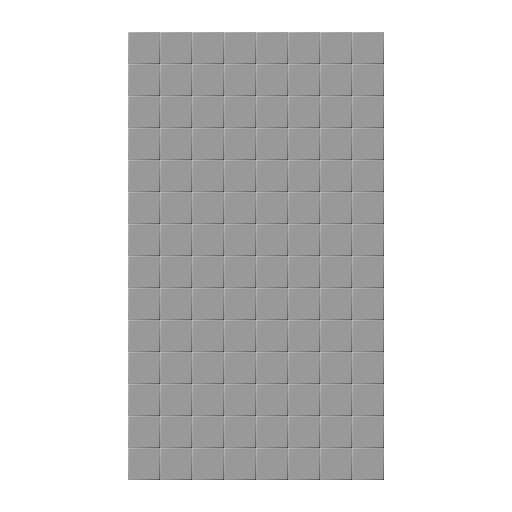
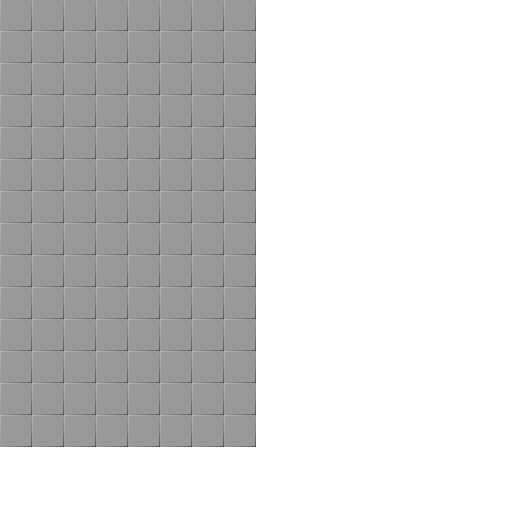
Correct drawing of the grid with background

diff --git a/Diamonds/DiamondsGame.m b/Diamonds/DiamondsGame.m
@@ -16,7 +16,6 @@
 {
     SpriteBatch* batch;
     
-    Sprite* gridSprite;
     Sprite* background;
         
     Grid* grid;
@@ -26,19 +25,27 @@
 - (void) loadResources: (ResourceManager*) resources
 {        
     background = [[Sprite alloc] initWithTexture: [resources loadTexture: @"back000"]];
-    gridSprite = [[Sprite alloc] initWithTexture: [resources loadTexture: @"grid"]];
         
     [background moveTo: CGPointMake(0, 0)];
-    [gridSprite moveTo: CGPointMake(0, 0)];
         
     GridPresentationInfo info;
     
-    info.origin = CGPointMake(0, 0);
+    info.origin = CGPointMake(20, 32);
     info.cellSize = CGSizeMake(32, 32);
+    info.heightInCells = 14;
     
     grid = [[Grid alloc] initWithResources: resources];
-    gridDrawer = [[GridDrawer alloc] initWithGrid: grid info: info];
+
     
+    gridDrawer = [[GridDrawer alloc] initWithGrid: grid info: info];
+
+    Sprite* gridBackground = [[Sprite alloc] initWithTexture: [resources loadTexture: @"grid"]];
+
+    [gridBackground resizeTo: CGSizeMake(256, 512)];
+    [gridBackground setSourceRectangle: CGRectMake(0, 0, 256, 512)];
+    
+    [gridDrawer setBackground: gridBackground];
+
     [grid put: Ruby at: MakePosition(0, 0)];
     [grid put: Diamond at: MakePosition(1, 0)];
 }
@@ -49,13 +56,13 @@
 }
 
 - (void) draw: (GameTime*) gameTime
-{    
+{ 
     batch = [[SpriteBatch alloc] initWithEngine: self.engine];
     
     [batch begin];
     
     [background drawIn: batch];
-    [gridSprite drawIn: batch];
+    [gridDrawer drawBackgroundIn: batch];
     [gridDrawer drawIn: batch];
     
     [batch end];

diff --git a/DiamondsTests/TestGridDrawer.m b/DiamondsTests/TestGridDrawer.m
@@ -9,6 +9,7 @@
 
 #import "MockSpriteBatch.h"
 #import "MockResourceManager.h"
+#import "MockTexture.h"
 
 @interface TestGridDrawer: TestCase 
 @end
@@ -30,8 +31,9 @@
 
     resources = [MockResourceManager new];
     
-    info.origin = CGPointMake(0, 0);
+    info.origin = CGPointMake(100, 100);
     info.cellSize = CGSizeMake(32, 32);
+    info.heightInCells = 14;
     
     grid = [[Grid alloc] initWithResources: resources];
     gridDrawer = [[GridDrawer alloc] initWithGrid: grid info: info];
@@ -49,7 +51,7 @@
 {
     CGPoint expectedPosition;
     expectedPosition.x = info.origin.x + info.cellSize.width * gridPosition.column; 
-    expectedPosition.y = info.origin.y - info.cellSize.height * gridPosition.row;
+    expectedPosition.y = info.origin.y + (info.cellSize.height * (info.heightInCells - 1)) - info.cellSize.height * gridPosition.row;
     
     return expectedPosition;
 }
@@ -59,6 +61,20 @@
     [self drawGrid];
 
     assertEquals(0, [batch numberOfSpritesDrawn]);
+}
+
+- (void) testBackgroundSpriteHasTheCorrectSourceTexture
+{
+    MockTexture* texture = [MockTexture new];
+    Sprite* background = [[Sprite alloc] initWithTexture: texture];
+    
+    [gridDrawer setBackground: background];
+    
+    [batch begin];
+    [gridDrawer drawBackgroundIn: batch];
+    [batch end];    
+    
+    assertEqualObjects(texture, [batch lastSprite].texture);
 }
 
 - (void) testOneSpriteIsDrawnByGridDrawerWhenTheGridContainsOneGem

diff --git a/Diamonds/Game/Grid.m b/Diamonds/Game/Grid.m
@@ -5,6 +5,8 @@
 #import "Grid.h"
 #import "Gem.h"
 
+#import "Sprite.h"
+
 GridPosition MakePosition(int column, int row)
 {
     GridPosition position = { column, row };
@@ -69,8 +71,10 @@ GridPosition MakePosition(int column, int row)
 
 @implementation GridDrawer
 {
-    Grid* grid;
     GridPresentationInfo info;
+    Grid* grid;
+    
+    Sprite* backgroundSprite;
 }
 
 - (id) initWithGrid: (Grid*) gridToDraw info: (GridPresentationInfo) presentationInfo
@@ -85,6 +89,17 @@ GridPosition MakePosition(int column, int row)
     info = presentationInfo;
     
     return self;
+}
+
+- (void) setBackground: (Sprite*) background;
+{
+    backgroundSprite = background;
+}
+
+- (void) drawBackgroundIn: (SpriteBatch*) batch
+{
+    [backgroundSprite moveTo: info.origin];
+    [backgroundSprite drawIn: batch];    
 }
 
 - (void) drawIn: (SpriteBatch*) batch

diff --git a/Diamonds/Game/Grid.h b/Diamonds/Game/Grid.h
@@ -4,8 +4,6 @@
 
 #import "Gem.h"
 
-@class ResourceManager;
-
 @interface Grid : NSObject
 
 @property (readonly) NSArray* gems;
@@ -19,11 +17,16 @@
 
 @end
 
+@class ResourceManager;
+@class Sprite;
 
 @interface GridDrawer : NSObject
 
 - (id) initWithGrid: (Grid*) gridToDraw info: (GridPresentationInfo) presentationInfo;
 
+- (void) setBackground: (Sprite*) background;
+
+- (void) drawBackgroundIn: (SpriteBatch*) batch;
 - (void) drawIn: (SpriteBatch*) batch;
 
 @end

diff --git a/Diamonds/Game/Gem.m b/Diamonds/Game/Gem.m
@@ -58,7 +58,7 @@
     CGPoint spritePosition = info.origin;
     
     spritePosition.x += info.cellSize.width * self.position.column; 
-    spritePosition.y -= info.cellSize.height * self.position.row; 
+    spritePosition.y -= info.cellSize.height * self.position.row - (info.cellSize.height * (info.heightInCells - 1)); 
     
     [sprite moveTo: spritePosition];
     [sprite drawIn: batch];

diff --git a/Diamonds/Game/Gem.h b/Diamonds/Game/Gem.h
@@ -6,6 +6,8 @@ typedef struct GridPresentationInfo
 {
     CGPoint origin;
     CGSize cellSize;
+
+    int heightInCells;
 }
 GridPresentationInfo;
 
